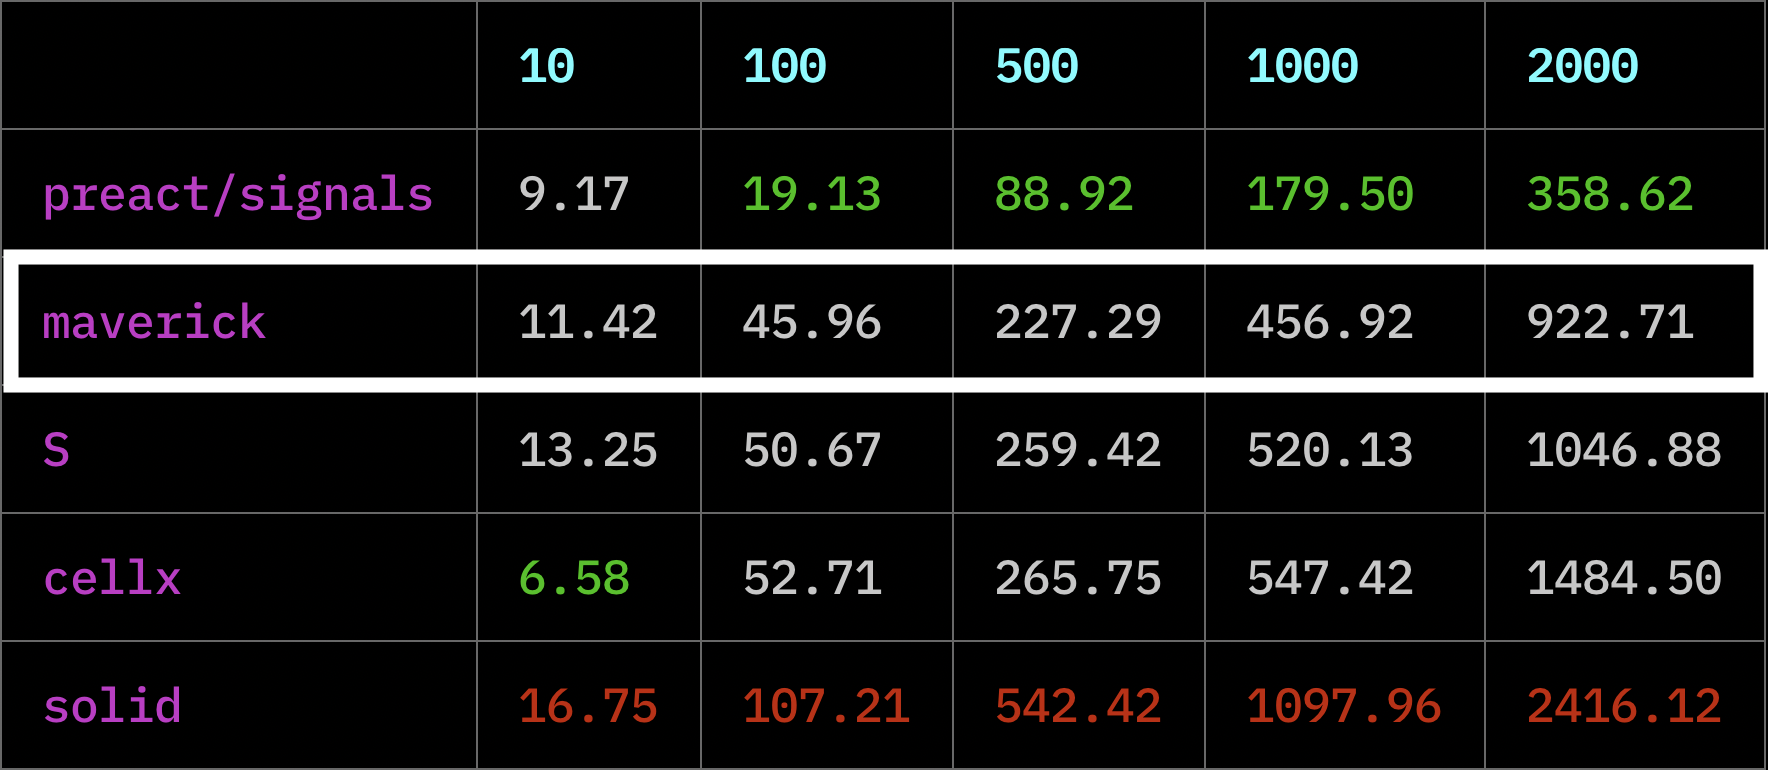
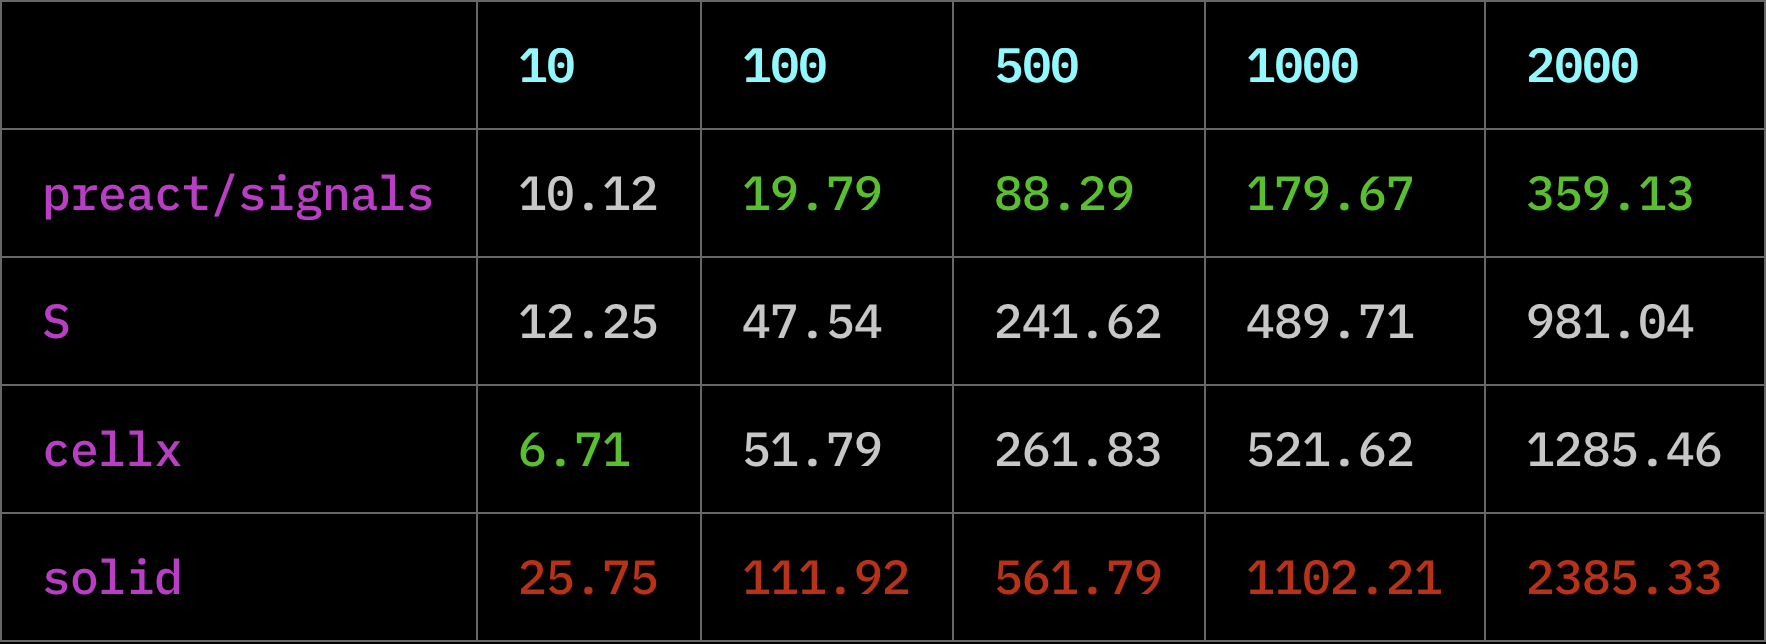
chore: remove maverick from sync benchmark

diff --git a/bench/layers.js b/bench/layers.js
@@ -6,8 +6,6 @@ import kleur from 'kleur';
 
 import * as cellx from 'cellx';
 import * as Sjs from 's-js';
-// @ts-expect-error
-import { default as sinuous } from 'sinuous/dist/observable.js';
 import * as solid from './solid-js-baseline.js';
 import * as preact from '@preact/signals-core';
 import * as maverick from '../dist/prod/index.js';
@@ -38,13 +36,14 @@ const isSolution = (layers, answer) => answer.every((_, i) => SOLUTIONS[layers][
 async function main() {
   const report = {
     'preact/signals': { fn: runPreact, runs: [] },
-    maverick: { fn: runMaverick, runs: [], avg: [] },
     S: { fn: runS, runs: [] },
     cellx: { fn: runCellx, runs: [] },
     solid: { fn: runSolid, runs: [] },
-    // TODO: running too slow so I need to leave it out for now - maybe something is wrong.
-    // sinuous: { fn: runSinuous, runs: [] },
   };
+
+  if (BATCHED) {
+    report.maverick = { fn: runMaverick, runs: [], avg: [] };
+  }
 
   for (const lib of Object.keys(report)) {
     const current = report[lib];
@@ -266,57 +265,6 @@ function runPreact(layers, done) {
     const solution = [end.a.value, end.b.value, end.c.value, end.d.value];
     const endTime = performance.now() - startTime;
 
-    done(isSolution(layers, solution) ? endTime : -1);
-  });
-}
-
-/**
- * @see {@link https://github.com/luwes/sinuous}
- */
-function runSinuous(layers, done) {
-  sinuous.root((dispose) => {
-    var start = {
-      a: sinuous.observable(1),
-      b: sinuous.observable(2),
-      c: sinuous.observable(3),
-      d: sinuous.observable(4),
-    };
-
-    let layer = start;
-
-    for (var i = layers; i--; ) {
-      layer = (function (m) {
-        var props = {
-          a: sinuous.computed(() => m.b()),
-          b: sinuous.computed(() => m.a() - m.c()),
-          c: sinuous.computed(() => m.b() + m.d()),
-          d: sinuous.computed(() => m.c()),
-        };
-
-        sinuous.subscribe(props.a),
-          sinuous.subscribe(props.b),
-          sinuous.subscribe(props.c),
-          sinuous.subscribe(props.d);
-
-        props.a(), props.b(), props.c(), props.d();
-
-        return props;
-      })(layer);
-    }
-
-    const startTime = performance.now();
-
-    // TODO: not sure how to batch Sinuous
-    const run = BATCHED ? (fn) => fn() : (fn) => fn();
-    run(() => {
-      start.a(4), start.b(3), start.c(2), start.d(1);
-    });
-
-    const end = layer;
-    const solution = [end.a(), end.b(), end.c(), end.d()];
-    const endTime = performance.now() - startTime;
-
-    dispose();
     done(isSolution(layers, solution) ? endTime : -1);
   });
 }
